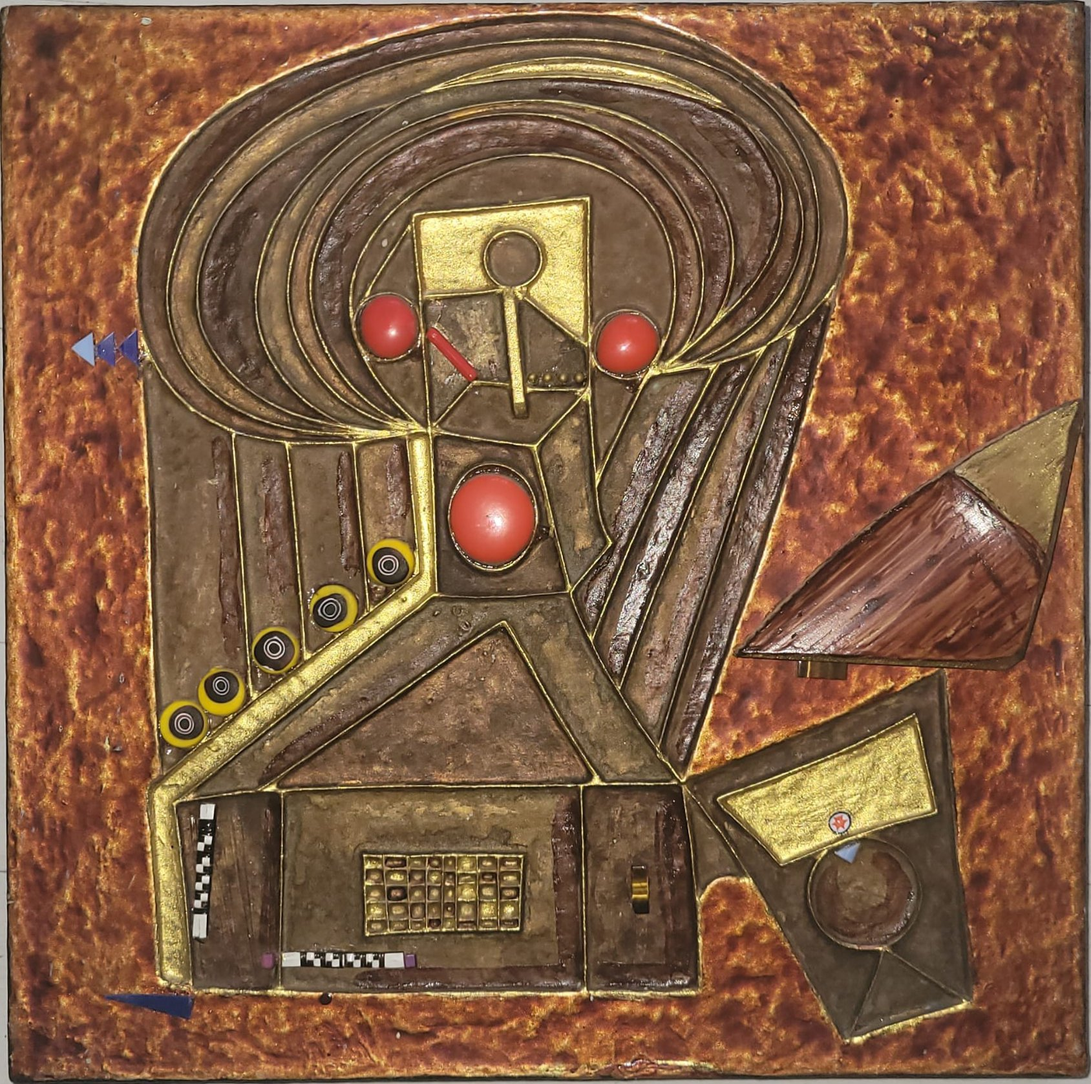
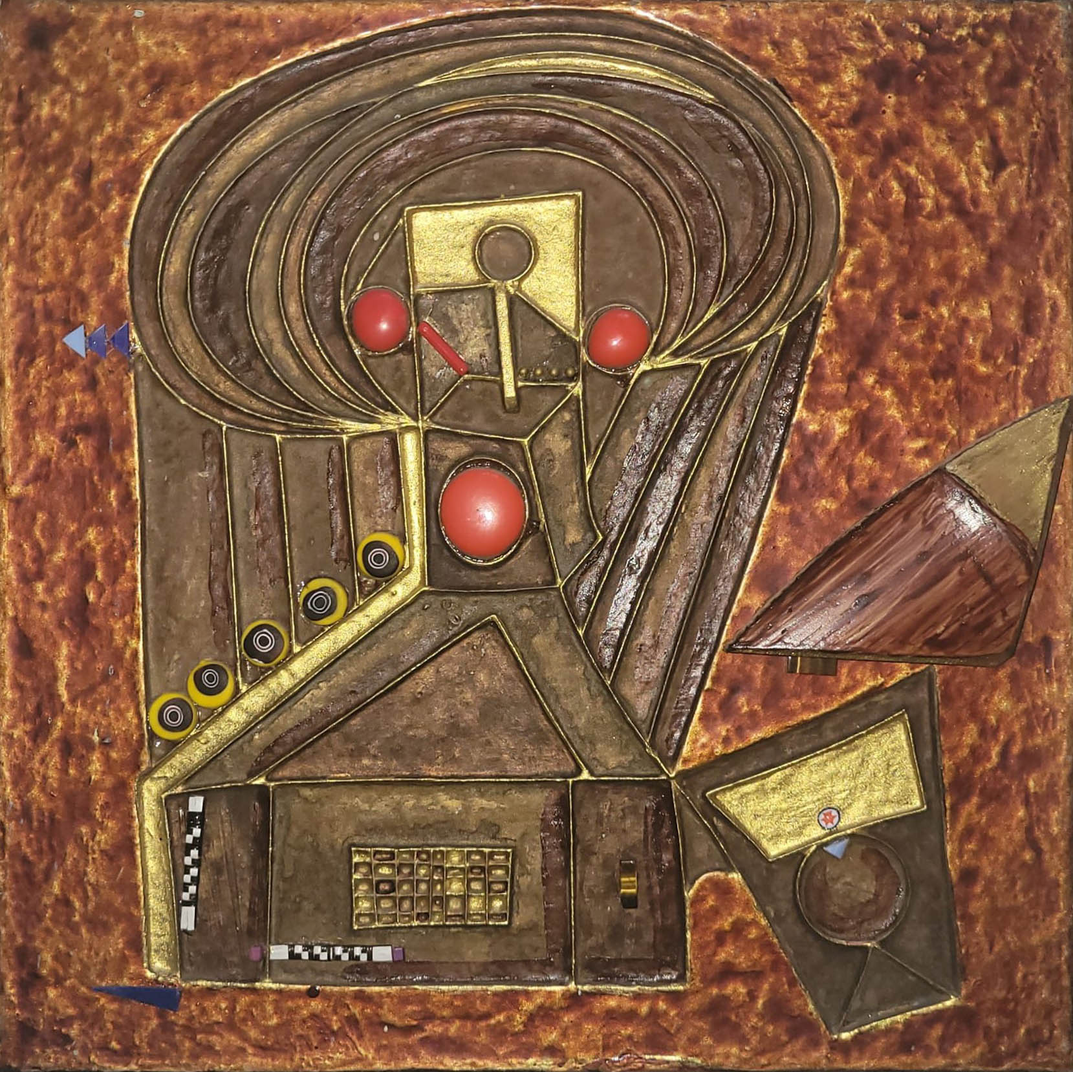
dossier compartimentés mini crée

diff --git a/src/app/compartimentes/page.tsx b/src/app/compartimentes/page.tsx
@@ -15,9 +15,7 @@ const works: Work[] = [
   ...Array.from({ length: 9 }, (_, i) => ({
     title: `Compartimentés ${i + 1}`,
     style: "Compartimentés",
-    image: `/1969-1994-Compartimentes/pierre-arnould-artist-compartimentes-${
-      i + 1
-    }.jpg`,
+    image: `/1969-1994-Compartimentes-mini/pierre-arnould-artist-compartimentes-${ i + 1}.webp`,
     description: "..",
   })),
 ];
